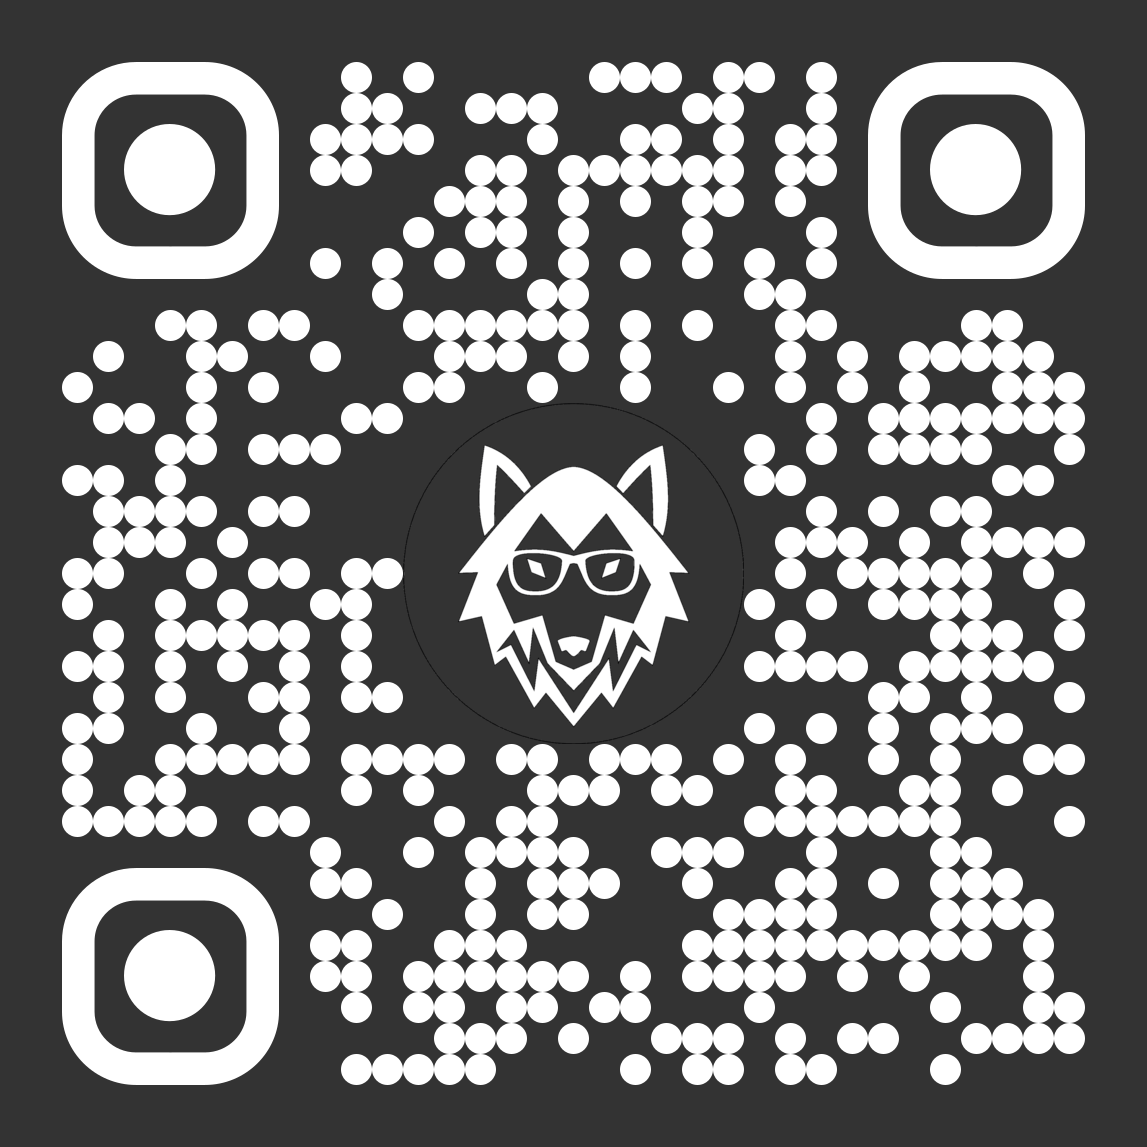
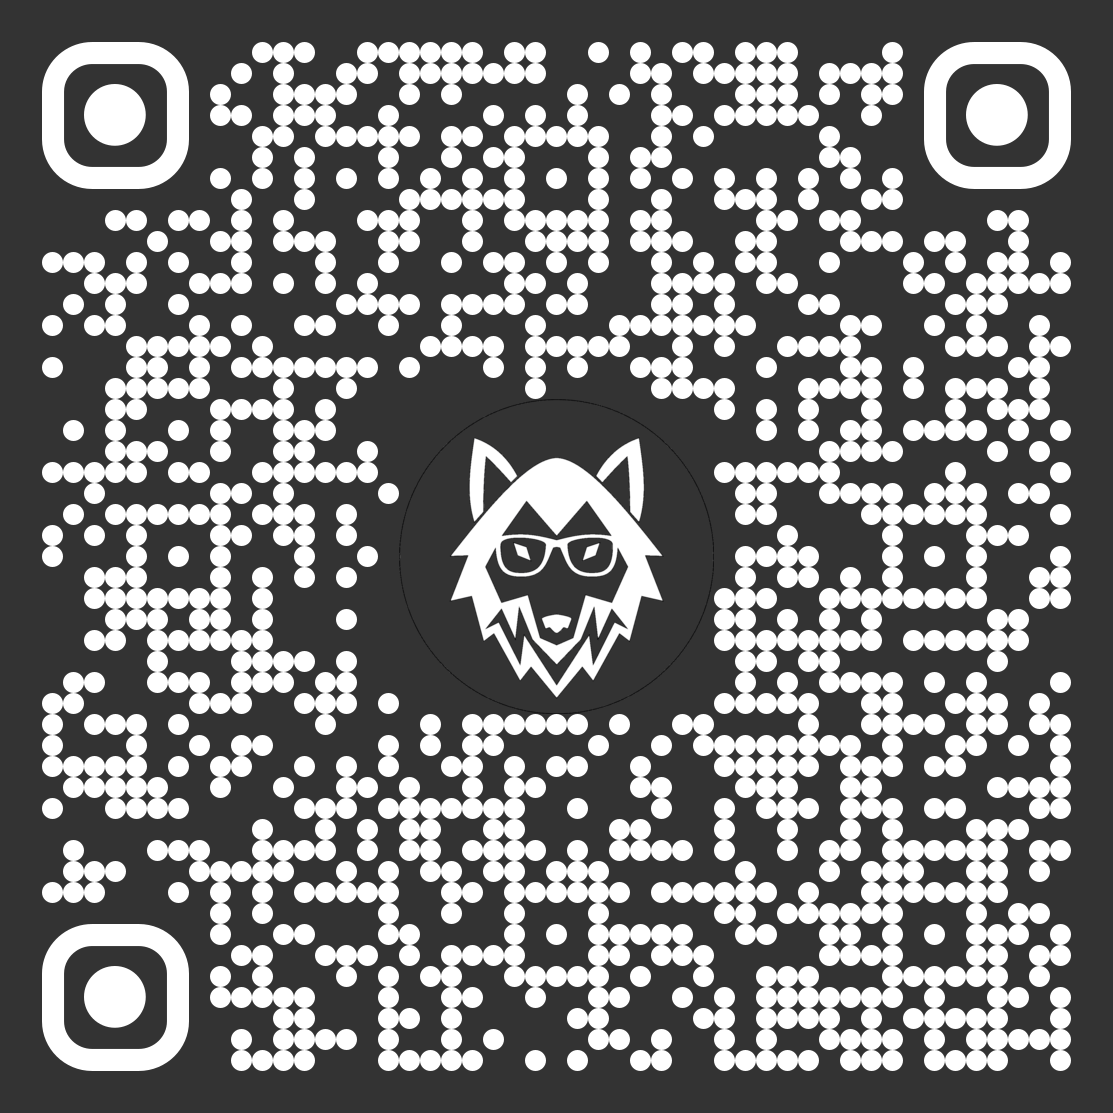
update

diff --git a/list/index.html b/list/index.html
@@ -31,7 +31,7 @@
     <br /><br /><small>Click here if your song is not in our list.</small>
 </a>
 <!--  -->
-<a href="upi://pay?pa=cataclysm9.8@oksbi&pn=Anand Lobo&tn=Tip for Lemongrass Trio&cu=INR" target="_blank" class="w3-animate-left">
+<a href="upi://pay?pa=cataclysm9.8@oksbi&pn=Anand Lobo&tn=Lemongrass Trio&cu=INR" target="_blank" class="w3-animate-left">
     <img id="upi_qr" src="upi_qr.png" />
 </a>
 <p class="upi">Tap here or scan the QR code with any UPI app to leave us a tip!</p>
